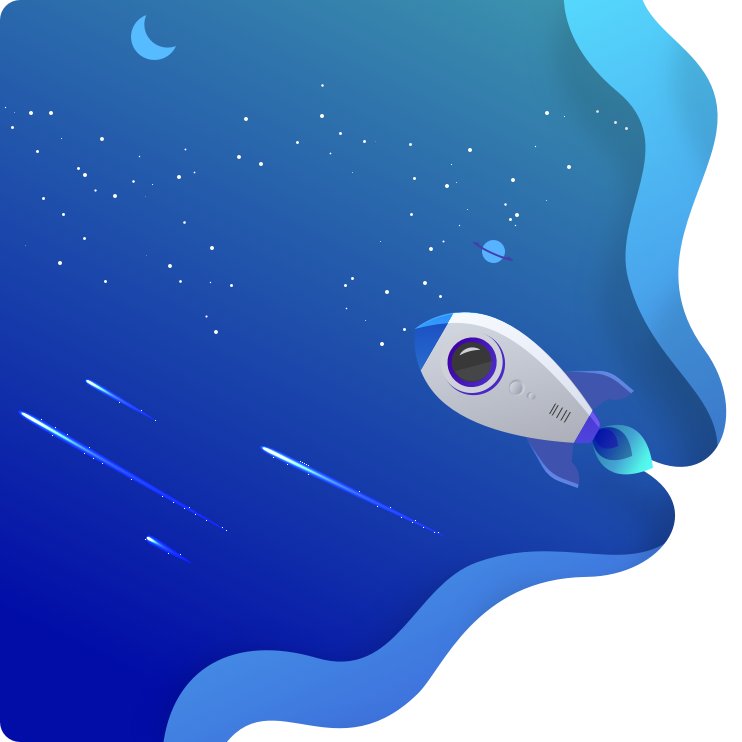
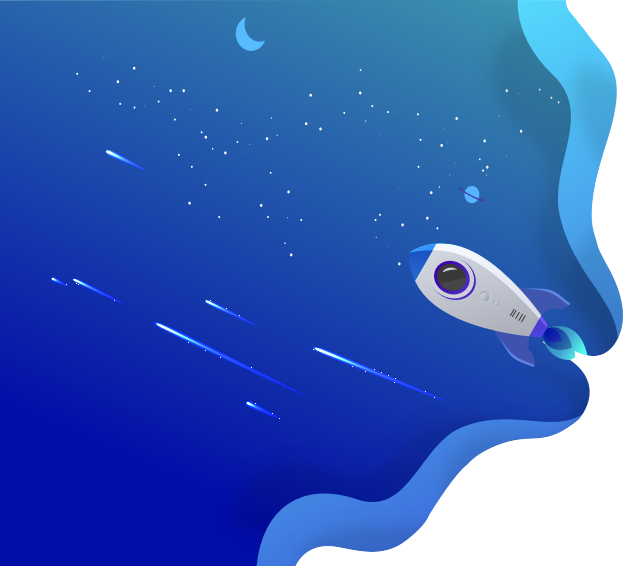
修改login样式

diff --git a/src/views/login/index.vue b/src/views/login/index.vue
@@ -4,11 +4,11 @@
       <el-image
         :src="require('@/assets/login.png')"
         fit="fill"
-        style="width: 100%;height: 567px;display: block;"
+        style="width: 100%;height: 567px;display: block;border-radius: 20px;"
       />
     </div>
     <div style="flex: 385">
-      <div class="login-container" style="padding: 20px 20px">
+      <div class="login-container" style="padding: 50px 50px">
         <el-form
           ref="loginForm"
           :model="loginForm"
@@ -91,7 +91,7 @@
               <el-image
                 :loading="captchaLoading"
                 :src="captchaImage"
-                style="width: 100%; height: 42px; float: right;"
+                style="width: 100%; height: 42px; float: right;border-radius: 5px;"
                 @click="setCaptchaImage"
               />
             </el-col>
@@ -100,7 +100,7 @@
           <el-button
             :loading="loading"
             type="primary"
-            style="width:100%;margin-bottom:30px;height: 40px;"
+            style="width:100%;margin-bottom:30px;height: 40px;background-color: #2A99E6;border-radius: 5px;"
             @click.native.prevent="handleLogin"
           >
             {{ $t('login.logIn') }}
@@ -266,13 +266,13 @@ export default {
   .el-input {
     display: inline-block;
     height: 40px;
-    width: 80%;
+    width: 60%;
 
     input {
       background: #ffffff;
       border: none;
       //-webkit-appearance: none;
-      border-radius: 2px;
+      border-radius: 5px;
       padding: 12px 5px 12px 15px;
       color: #333;
       height: 40px;
@@ -352,7 +352,7 @@ export default {
 
   .svg-container {
     padding: 0 5px 0 15px;
-    color: #333;
+    color: #666666;
     vertical-align: middle;
     width: 30px;
     display: inline-block;
@@ -384,7 +384,7 @@ export default {
     right: 10px;
     top: 2px;
     font-size: 16px;
-    color: #333;
+    color: #666666;
     cursor: pointer;
     user-select: none;
   }
